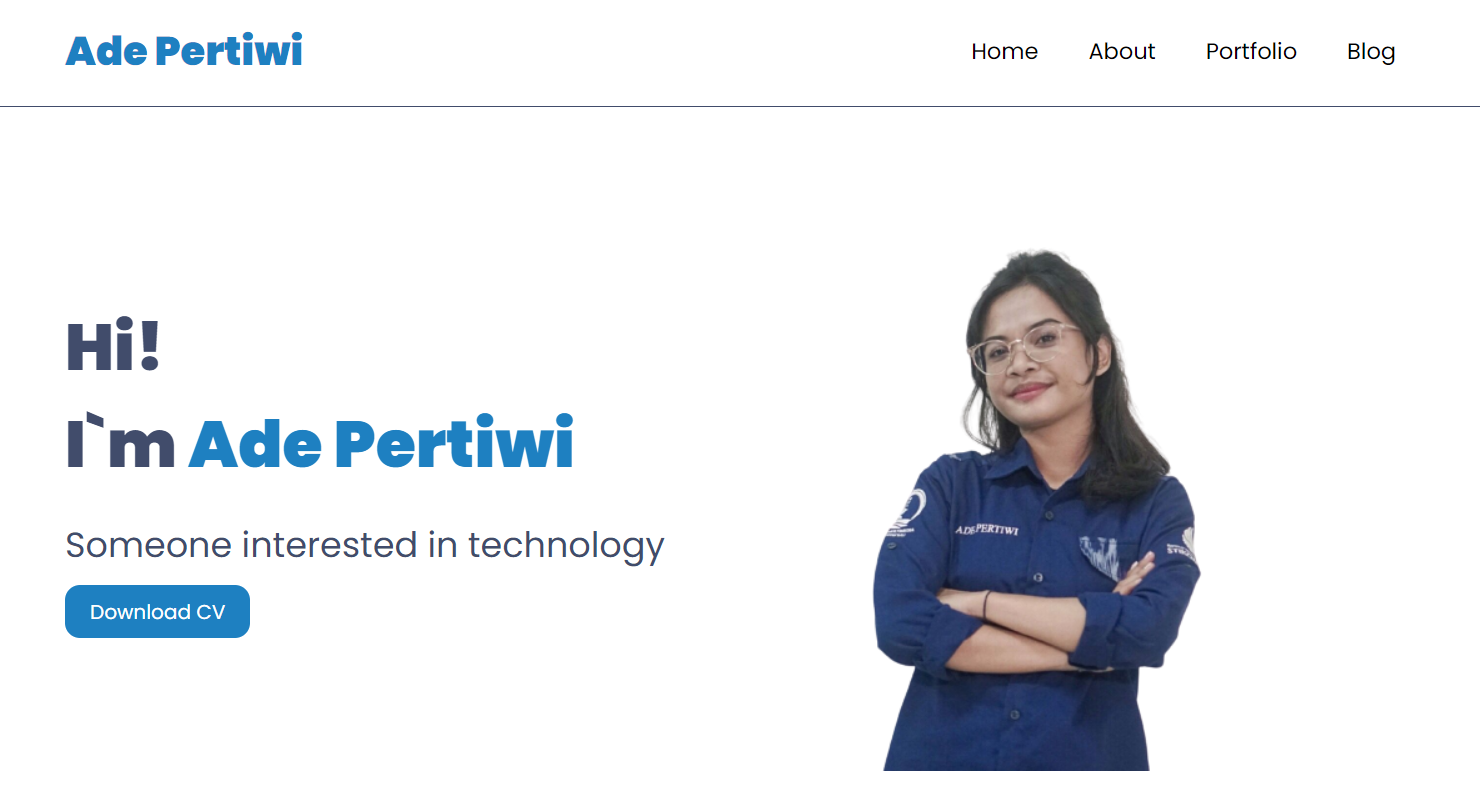
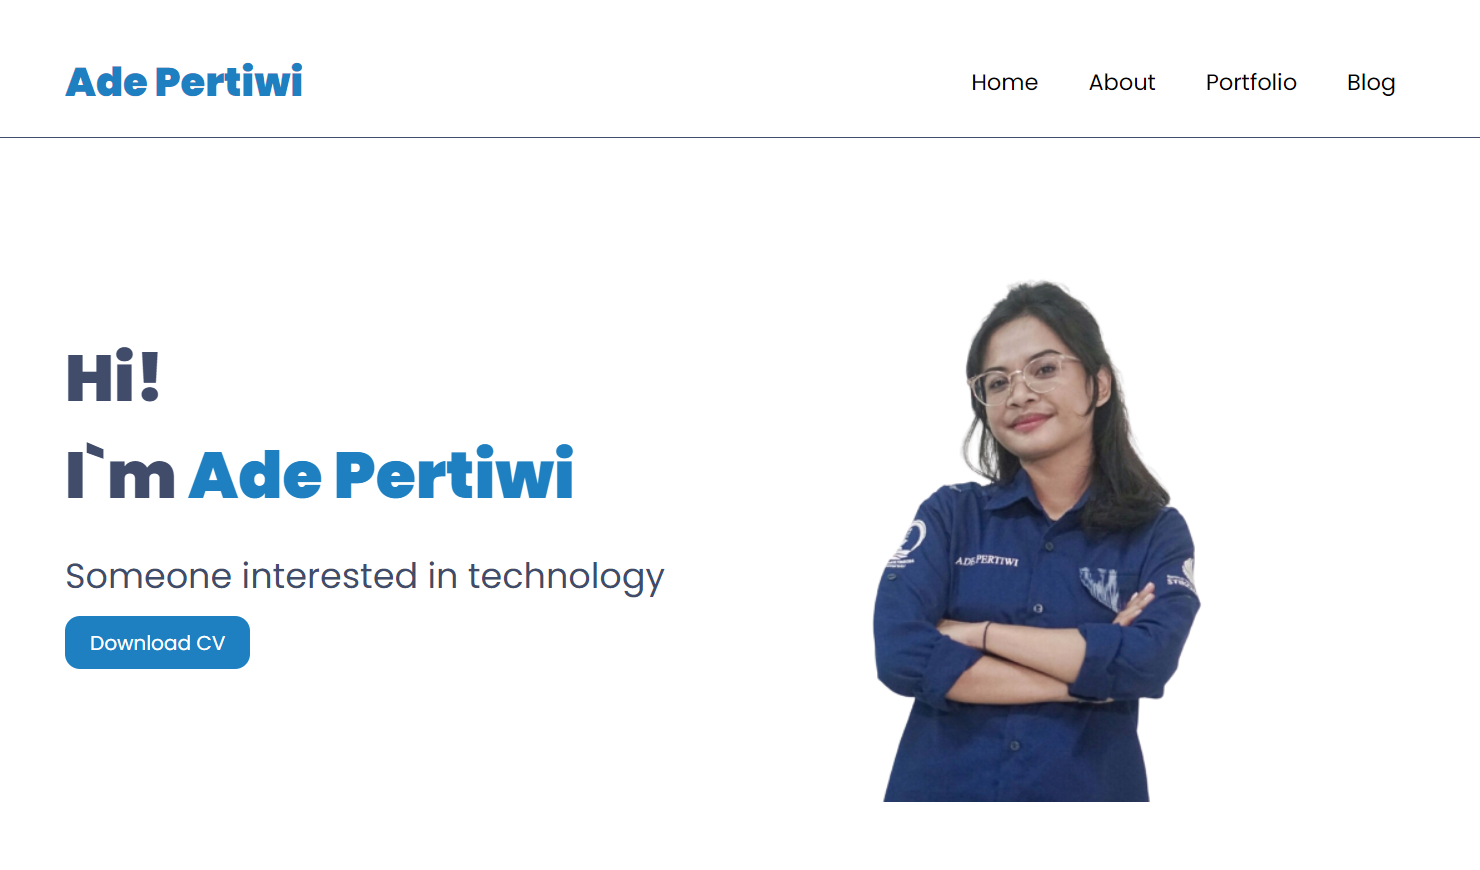
update portofolio

diff --git a/portfolio.html b/portfolio.html
@@ -19,7 +19,6 @@
                 <li><a href="index.html">Home</a></li>
                 <li><a href="about.html">About</a></li>
                 <li><a href="portfolio.html">Portfolio</a></li>
-                <li><a href="articles.html">Articles</a></li>
             </ul>
         </nav>
     </header>
@@ -32,8 +31,8 @@
         <div class="portfolio">
             <div class="item">
                 <img src="images/porto-1.png" alt="Portfolio 1">
-                <h3>LiterasiKita</h3>
-                <p>Created using Figma, showcasing LiterasiKita, an innovative platform meticulously designed to enhance digital literacy within the community. The primary objective is to offer captivating digital books readily available for online reading and downloading.</p>
+                <h3>Mockup UI Design & Prototype LiterasiKita</h3>
+                <p>This project was made possible through the collaboration of me and the team in the MSIB program with Skilvul, using Figma as the main tool. We designed LiterasiKita diligently, aiming to increase digital literacy by offering easy access to an interesting collection of digital books.</p>
                 <div class="btn-view">
                     <a href="https://bit.ly/Prodev-FS22">View</a>
                 </div>
@@ -41,9 +40,7 @@
             <div class="item">
                 <img src="images/porto-2.png" alt="Portfolio 2">
                 <h3>BMI Calculator</h3>
-                <p>The BMI Calculator website is a Body Mass Index calculation tool that allows users to quickly find
-                    out their body mass index. Users can easily enter their weight and height, and it will calculate the
-                    user's BMI</p>
+                <p>BMI Calculator is a simple tool that allows users to quickly calculate their Body Mass Index. Built exclusively using HTML, CSS, and JavaScript, users can easily enter their weight and height to find out their BMI. Initiative to increase health awareness and healthy lifestyles.</p>
                 <div class="btn-view">
                     <a href="https://adepertiwi.github.io/BMI-Calculator/">View</a>
                 </div>
@@ -51,8 +48,7 @@
             <div class="item">
                 <img src="images/porto-3.png" alt="Portfolio 3">
                 <h3>Personal Website</h3>
-                <p>A personal website is an online platform dedicated to introducing oneself, sharing an individual's
-                    creativity, experiences and personal interests with the world</p>
+                <p>A personal website is an online space that displays a person's unique identity. Built with HTML and CSS, this site serves as a platform to introduce yourself, share your skills, experience and portfolio. Even though it is not yet responsive, it still provides a clear picture of the individual and their work.</p>
                 <div class="btn-view">
                     <a href="https://adepertiwi.github.io/personal-website/">View</a>
                 </div>
@@ -60,14 +56,48 @@
             <div class="item">
                 <img src="/images/porto-4.png" alt="Portfolio 4">
                 <h3>Project Design</h3>
-                <p>This Graphic Design Project is a creative work that I created from very popular graphic design
-                    software: Adobe Illustrator, Photoshop, CorelDRAW, and Canva</p>
+                <p>This graphic and poster design project is my creative work, designed using leading graphic design software such as Adobe Illustrator, Photoshop, CorelDRAW, and Canva. Each work combines design skills and visual creation to convey a message aesthetically and communicatively.</p>
                 <div class="btn-view">
                     <a
                         href="https://drive.google.com/drive/folders/1gUxe9PdfzpGB3dobGaCIKmDc06VoOzCw?usp=drive_link">View</a>
                 </div>
             </div>
-            
+            <div class="item">
+                <img src="/images/porto-5.png" alt="Portfolio 5">
+                <h3>TODO List Website</h3>
+                <p>Todo List Website is a platform designed with React.js and Redux to help users manage their to-do lists efficiently. With a simple and responsive interface, users can easily add, edit, and remove items from their to-do list. It's an intuitive solution to improve everyday productivity and organization.</p>
+                <div class="btn-view">
+                    <a
+                        href="https://todo-list-adepertiwi-eqjr7taqj-ade-pertiwis-projects.vercel.app/">View</a>
+                </div>
+            </div>
+            <div class="item">
+                <img src="/images/porto-6.png" alt="Portfolio 6">
+                <h3>LiterasiKita</h3>
+                <p>LiterasiKita is a complex website that aims to instill a love of reading in Indonesian children. With donation features and educational videos, we enable contributions to support our broader literacy mission. This project is the result of my team's collaboration in the MSIB program with Skilvul.</p>
+                <div class="btn-view">
+                    <a
+                        href="https://literasikita.netlify.app/">View</a>
+                </div>
+            </div>
+            <div class="item">
+                <img src="/images/porto-7.png" alt="Portfolio 7">
+                <h3>Product Inovation & Wireframe</h3>
+                <p>Somno is an innovative web-based artificial intelligence (AI) product designed using Figma. The main goal is to provide solutions that utilize AI technology to improve users' sleep quality and sleep health. This project is the result of my team's collaboration in the MSIB program with Skilvul</p>
+                <div class="btn-view">
+                    <a
+                        href="https://www.figma.com/design/nN2AiYmJESYXGyr8L0x7iq/Brief---Kelompok-1?node-id=26%3A211&t=O9rIDlIeQEOSnqEt-1">View</a>
+                </div>
+            </div>
+            <div class="item">
+                <img src="/images/porto-6.png" alt="Portfolio 8">
+                <h3>Project Certification Scheme Programmer</h3>
+                <p>This certification project is a simple data management application that allows users to record, edit, and delete inventory data. Additional features include detailed data views to increase user visibility. This is a test of skills in software development and data management.</p>
+                <div class="btn-view">
+                    <a
+                        href="https://github.com/adepertiwi/skema-programmer">View</a>
+                </div>
+            </div>
         </div>
     </section>
     <!-- portfolio end -->

diff --git a/index.html b/index.html
@@ -14,18 +14,14 @@
 
 </head>
 <body>
-    <header>
-        <h1 id="header-h1">Ade Pertiwi</h1>
-
-        <nav id="navbar">
-            <ul>
-                <li><a href="index.html">Home</a></li>
-                <li><a href="about.html">About</a></li>
-                <li><a href="portfolio.html">Portfolio</a></li>
-                <li><a href="articles.html">Articles</a></li>
-            </ul>
-        </nav>
-    </header>
+    <nav class="navbar">
+        <h1>Ade Pertiwi</h1>
+        <ul>
+            <li><a href="index.html">Home</a></li>
+            <li><a href="about.html">About</a></li>
+            <li><a href="portfolio.html">Portfolio</a></li>
+        </ul>
+    </nav>
 
     <main id="main">
         <section id="hero">

diff --git a/style.css b/style.css
@@ -6,7 +6,7 @@
     font-family: 'Poppins', sans-serif;
 }
 
-header {
+.navbar {
     color: #1E80C1;
     display: flex;
     justify-content: space-between;
@@ -21,25 +21,25 @@ header {
     border-bottom: 1px solid #414C6B;
 }
 
-#header-h1 {
+.navbar h1 {
     margin-left: 100px;
     font-size: 32px;
 }
 
-nav ul {
+.navbar ul {
     list-style: none;
     gap: 40px;
     margin-right: 100px;
     display: flex;
 }
 
-li a {
+.navbar li a {
     text-decoration: none;
     font-size: 18px;
     color: black;
 }
 
-li a:hover {
+.navbar li a:hover {
     cursor: pointer;
     border-bottom: 3px solid #414C6B;
 }

diff --git a/about.html b/about.html
@@ -19,7 +19,6 @@
                 <li><a href="index.html">Home</a></li>
                 <li><a href="about.html">About</a></li>
                 <li><a href="portfolio.html">Portfolio</a></li>
-                <li><a href="articles.html">Articles</a></li>
             </ul>
         </nav>
     </header>
